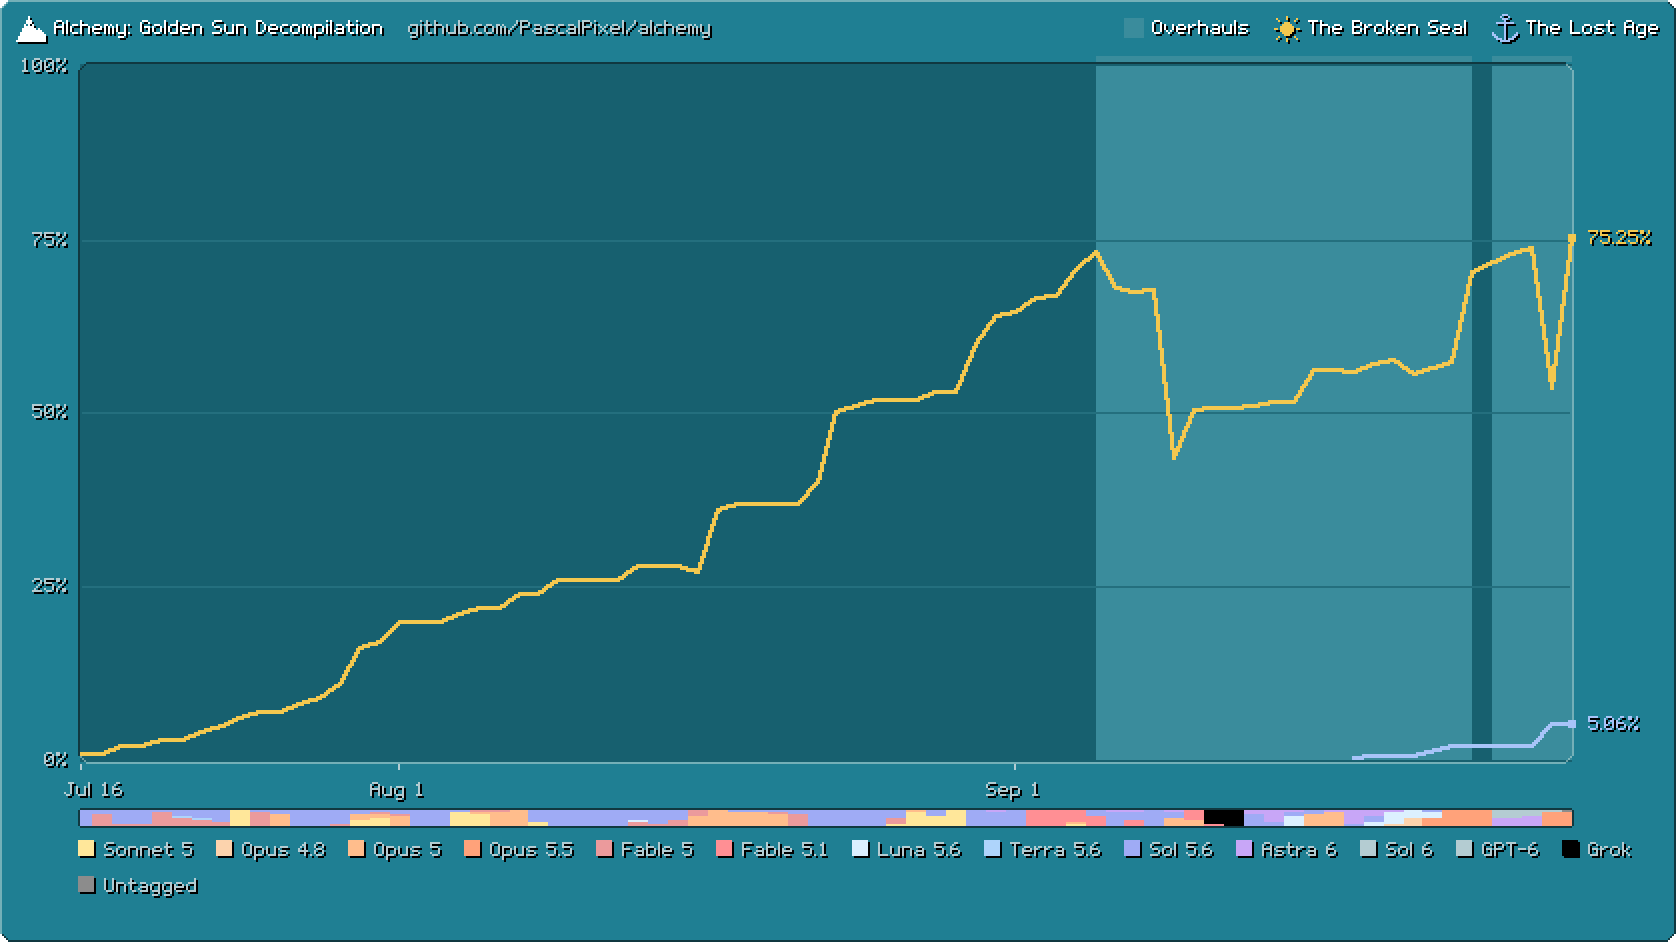
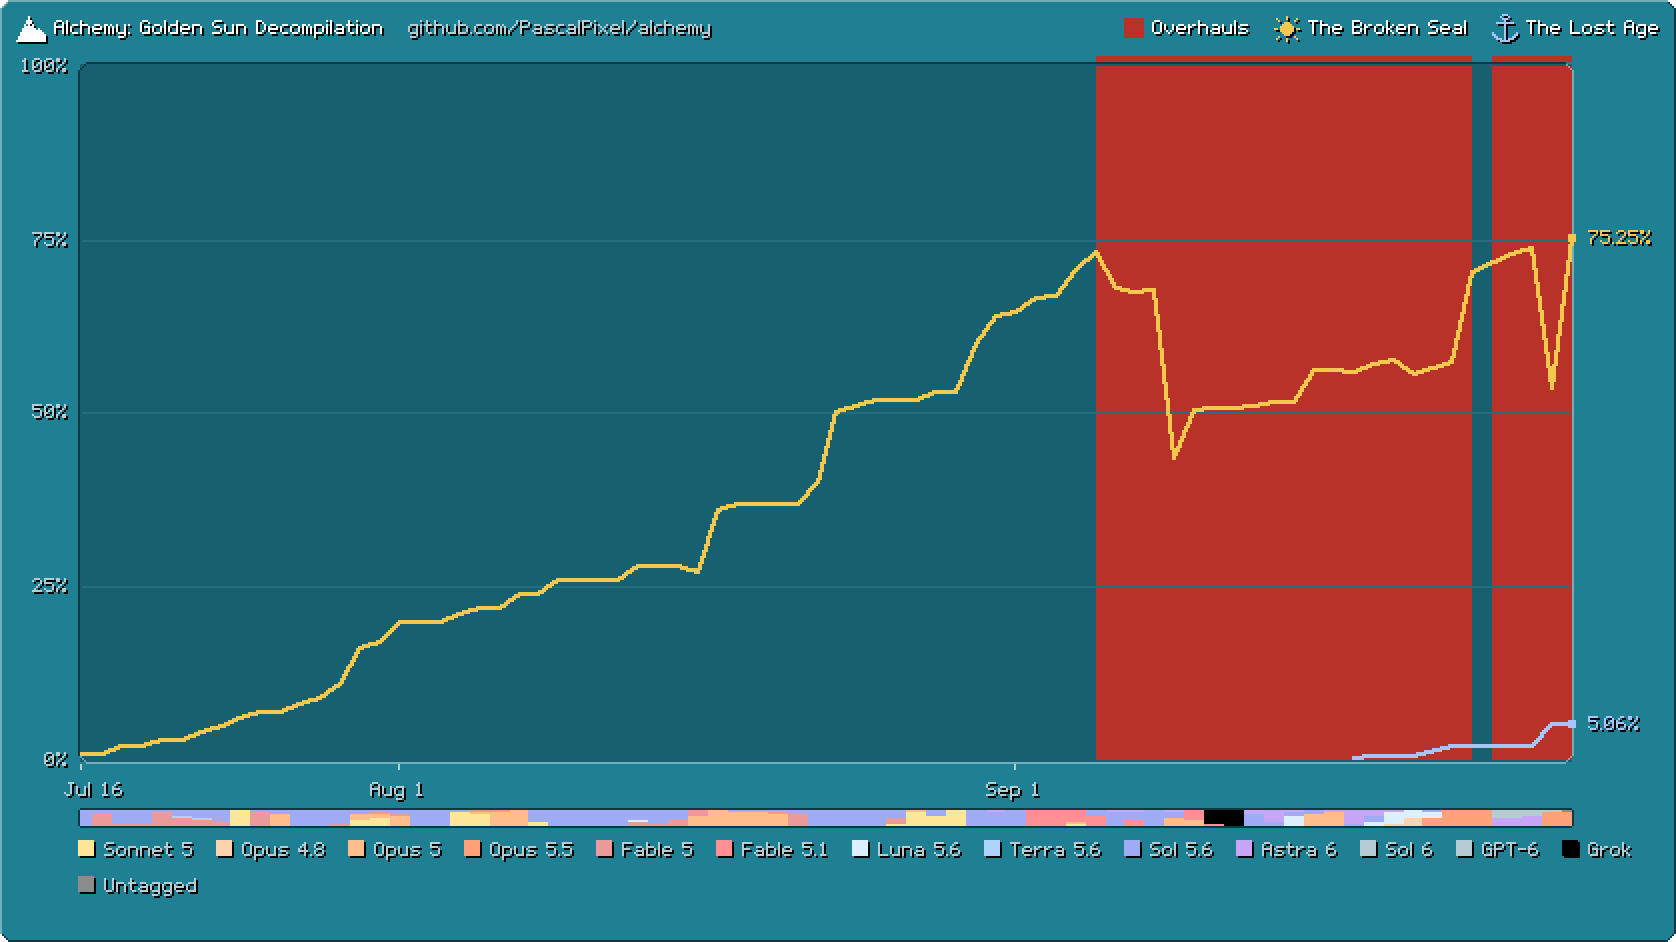
☀ 75.25% ⚓ 5.06% – Draw overhauls in red

Changed region(s): [[0.6516, 0.0, 0.9618, 0.8312]]

diff --git a/tools/alchemy/src/coverage/palette.rs b/tools/alchemy/src/coverage/palette.rs
@@ -21,7 +21,7 @@ pub(crate) const DARK: &str = "#103840";
 pub(crate) const WELL: &str = "#17606f";
 pub(crate) const GRID: &str = "#246f7e";
 /// A lighter band across a well: a marked day, a selected row.
-pub(crate) const BAND: &str = "#3a8c9c";
+pub(crate) const BAND: &str = "#b8322a";
 /// Labels: white ink over a black one-pixel shadow; muted and hover tones.
 pub(crate) const INK: &str = "#ffffff";
 pub(crate) const SHADOW: &str = "#000000";
